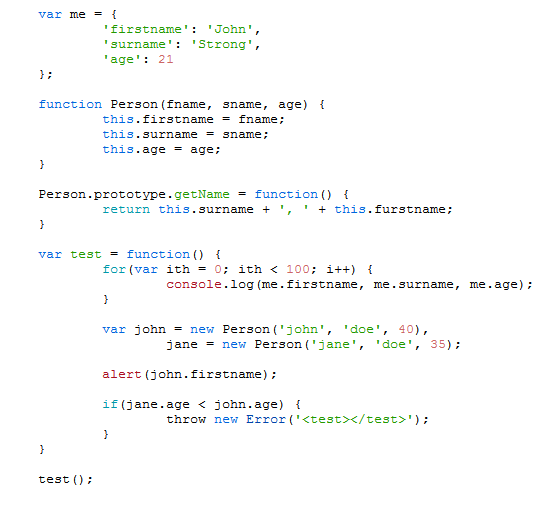
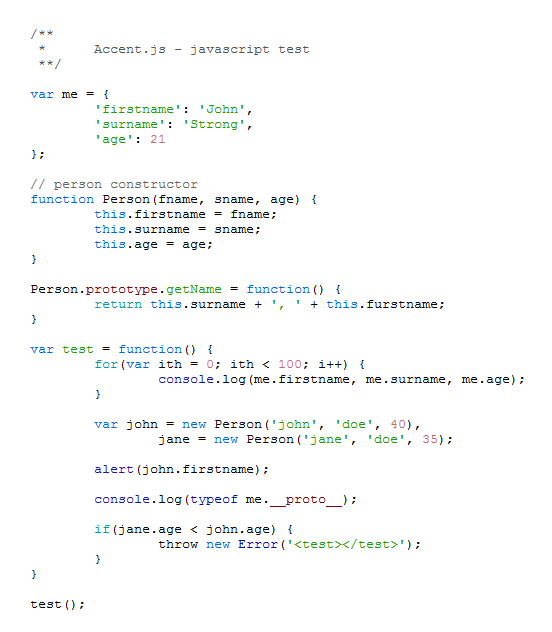
minor updates to readme/comments

diff --git a/accent.js b/accent.js
@@ -5,9 +5,7 @@
  *		implemented in javascript, this project aims to be a simple multi language code highlighting library,
  *		taking stylistic influence from various popular text editors
  *
- *		I do NOT intend to implement highlighting for all languages or even most.
- *
- *		I plan to implement code highlighting for JavaScript, Node? and Erlang
+ *		I do NOT intend to implement highlighting for all languages or even most
  **/
 
 ;(function() {

diff --git a/test/index.html b/test/index.html
@@ -9,7 +9,7 @@
 <code class="code">
 		
 	/**
-	 *	Accent.js - v0.1
+	 *	Accent.js - javascript test
 	 **/
 
 	var me = {
@@ -18,6 +18,7 @@
 		'age': 21
 	};
 
+	// person constructor
 	function Person(fname, sname, age) {
 		this.firstname = fname;
 		this.surname = sname;

diff --git a/README.md b/README.md
@@ -1,4 +1,4 @@
 accent-js
 =========
 
-simple multi language code highlighting library implmented in javascript
+simple multi language code highlighting library implemented in javascript
